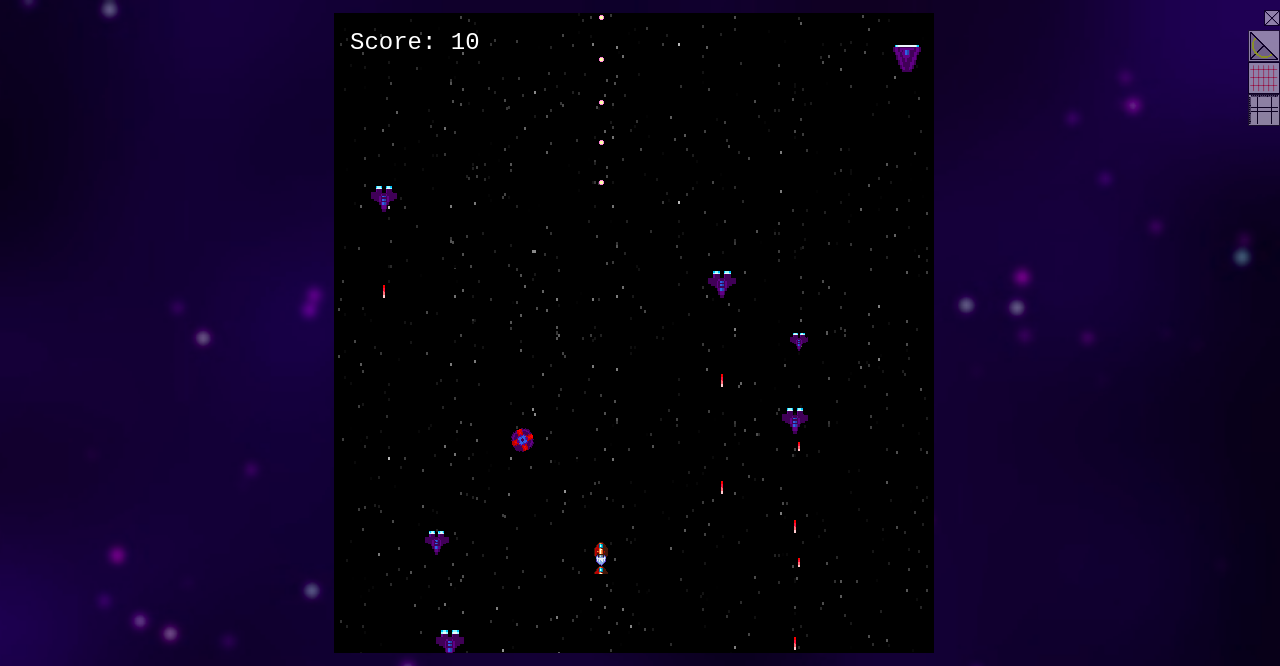
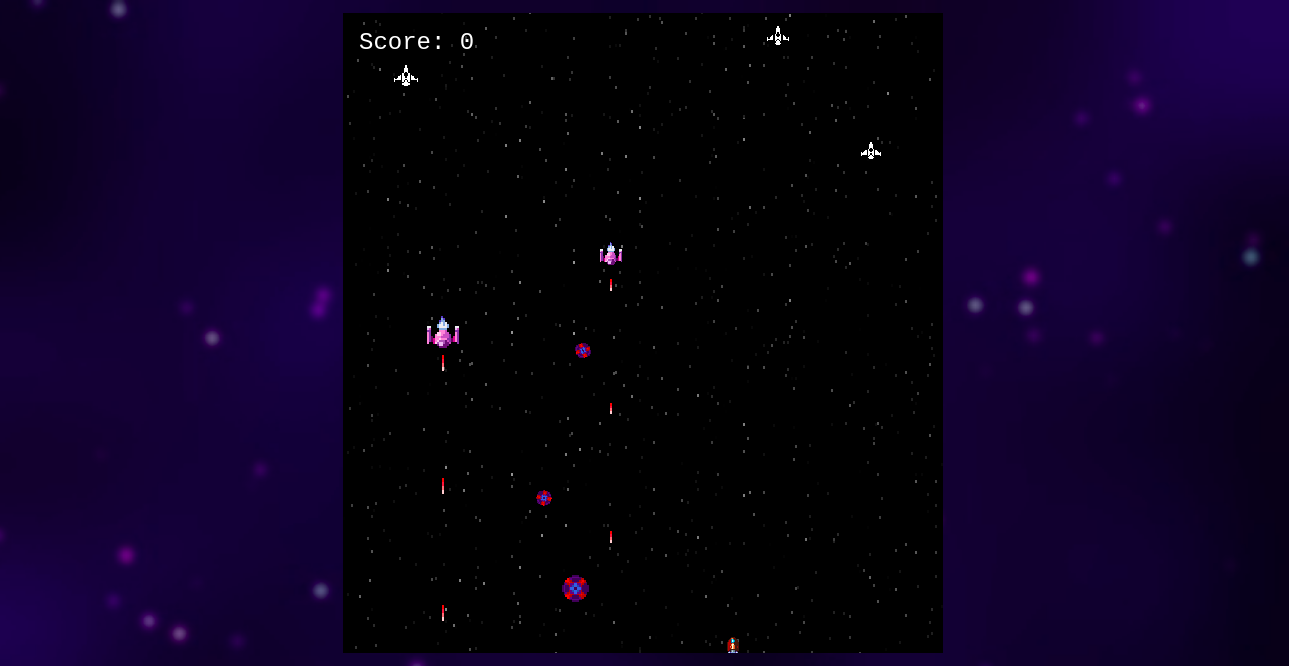
update enemies

diff --git a/src/Scenes/SceneMain.js b/src/Scenes/SceneMain.js
@@ -18,14 +18,14 @@ export default class SceneMain extends Phaser.Scene {
       frameWidth: 32,
       frameHeight: 32,
     });
-    this.load.spritesheet('sprEnemy0', 'assets/img/sprEnemy0.png', {
+    this.load.spritesheet('sprEnemy0', 'assets/img/enemy-small.png', {
       frameWidth: 16,
       frameHeight: 16,
     });
     this.load.image('sprEnemy1', 'assets/img/sprEnemy1.png');
-    this.load.spritesheet('sprEnemy2', 'assets/img/sprEnemy2.png', {
-      frameWidth: 16,
-      frameHeight: 16,
+    this.load.spritesheet('sprEnemy2', 'assets/img/white.png', {
+      frameWidth: 31,
+      frameHeight: 31,
     });
     this.load.image('sprLaserEnemy0', 'assets/img/sprLaserEnemy0.png');
     this.load.spritesheet('sprLaserPlayer', 'assets/img/laser-bolts.png', {
